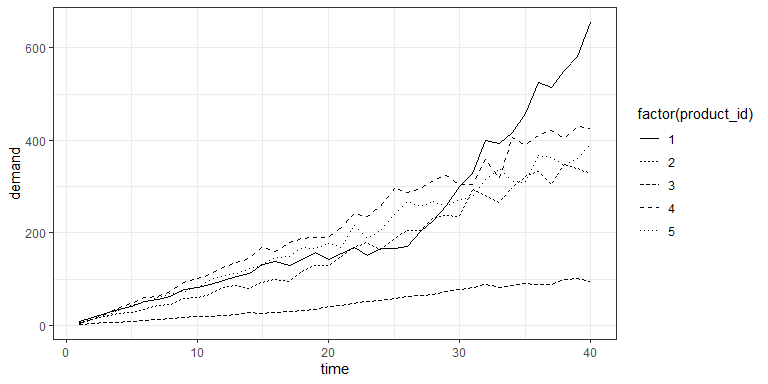
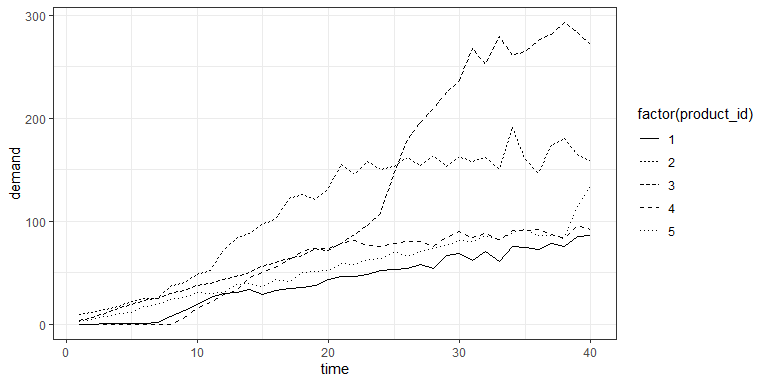
use_github_action()

diff --git a/README.md b/README.md
@@ -4,6 +4,8 @@
 # npdsim
 
 <!-- badges: start -->
+
+[![R-CMD-check](https://github.com/mohammedhichame/npdsim/actions/workflows/R-CMD-check.yaml/badge.svg)](https://github.com/mohammedhichame/npdsim/actions/workflows/R-CMD-check.yaml)
 <!-- badges: end -->
 
 The goal of npdsim is to simulate the demand for ready to launch new
@@ -45,17 +47,17 @@ str(npd_data1)
 #> 'data.frame':    8000 obs. of  13 variables:
 #>  $ product_id : int  1 1 1 1 1 1 1 1 1 1 ...
 #>  $ time       : num  1 2 3 4 5 6 7 8 9 10 ...
-#>  $ demand     : num  24 43 68 91 122 141 170 182 210 230 ...
-#>  $ attribute1 : num  0.535 0.535 0.535 0.535 0.535 ...
-#>  $ attribute10: num  0.153 0.153 0.153 0.153 0.153 ...
-#>  $ attribute7 : num  0.711 0.711 0.711 0.711 0.711 ...
-#>  $ attribute5 : num  0.022 0.022 0.022 0.022 0.022 ...
-#>  $ attribute8 : num  0.376 0.376 0.376 0.376 0.376 ...
-#>  $ attribute4 : num  0.0314 0.0314 0.0314 0.0314 0.0314 ...
-#>  $ attribute3 : num  0.0893 0.0893 0.0893 0.0893 0.0893 ...
-#>  $ attribute9 : num  0.913 0.913 0.913 0.913 0.913 ...
-#>  $ attribute2 : num  0.218 0.218 0.218 0.218 0.218 ...
-#>  $ attribute6 : num  0.984 0.984 0.984 0.984 0.984 ...
+#>  $ demand     : num  4 8 11 14 19 22 26 30 31 37 ...
+#>  $ attribute3 : num  0.807 0.807 0.807 0.807 0.807 ...
+#>  $ attribute8 : num  0.967 0.967 0.967 0.967 0.967 ...
+#>  $ attribute9 : num  0.812 0.812 0.812 0.812 0.812 ...
+#>  $ attribute1 : num  0.575 0.575 0.575 0.575 0.575 ...
+#>  $ attribute5 : num  0.907 0.907 0.907 0.907 0.907 ...
+#>  $ attribute4 : num  0.376 0.376 0.376 0.376 0.376 ...
+#>  $ attribute7 : num  0.135 0.135 0.135 0.135 0.135 ...
+#>  $ attribute6 : num  0.87 0.87 0.87 0.87 0.87 ...
+#>  $ attribute2 : num  0.293 0.293 0.293 0.293 0.293 ...
+#>  $ attribute10: num  0.845 0.845 0.845 0.845 0.845 ...
 ```
 
 The demand for the products with product_id=1,2,…,5 is shown below:
